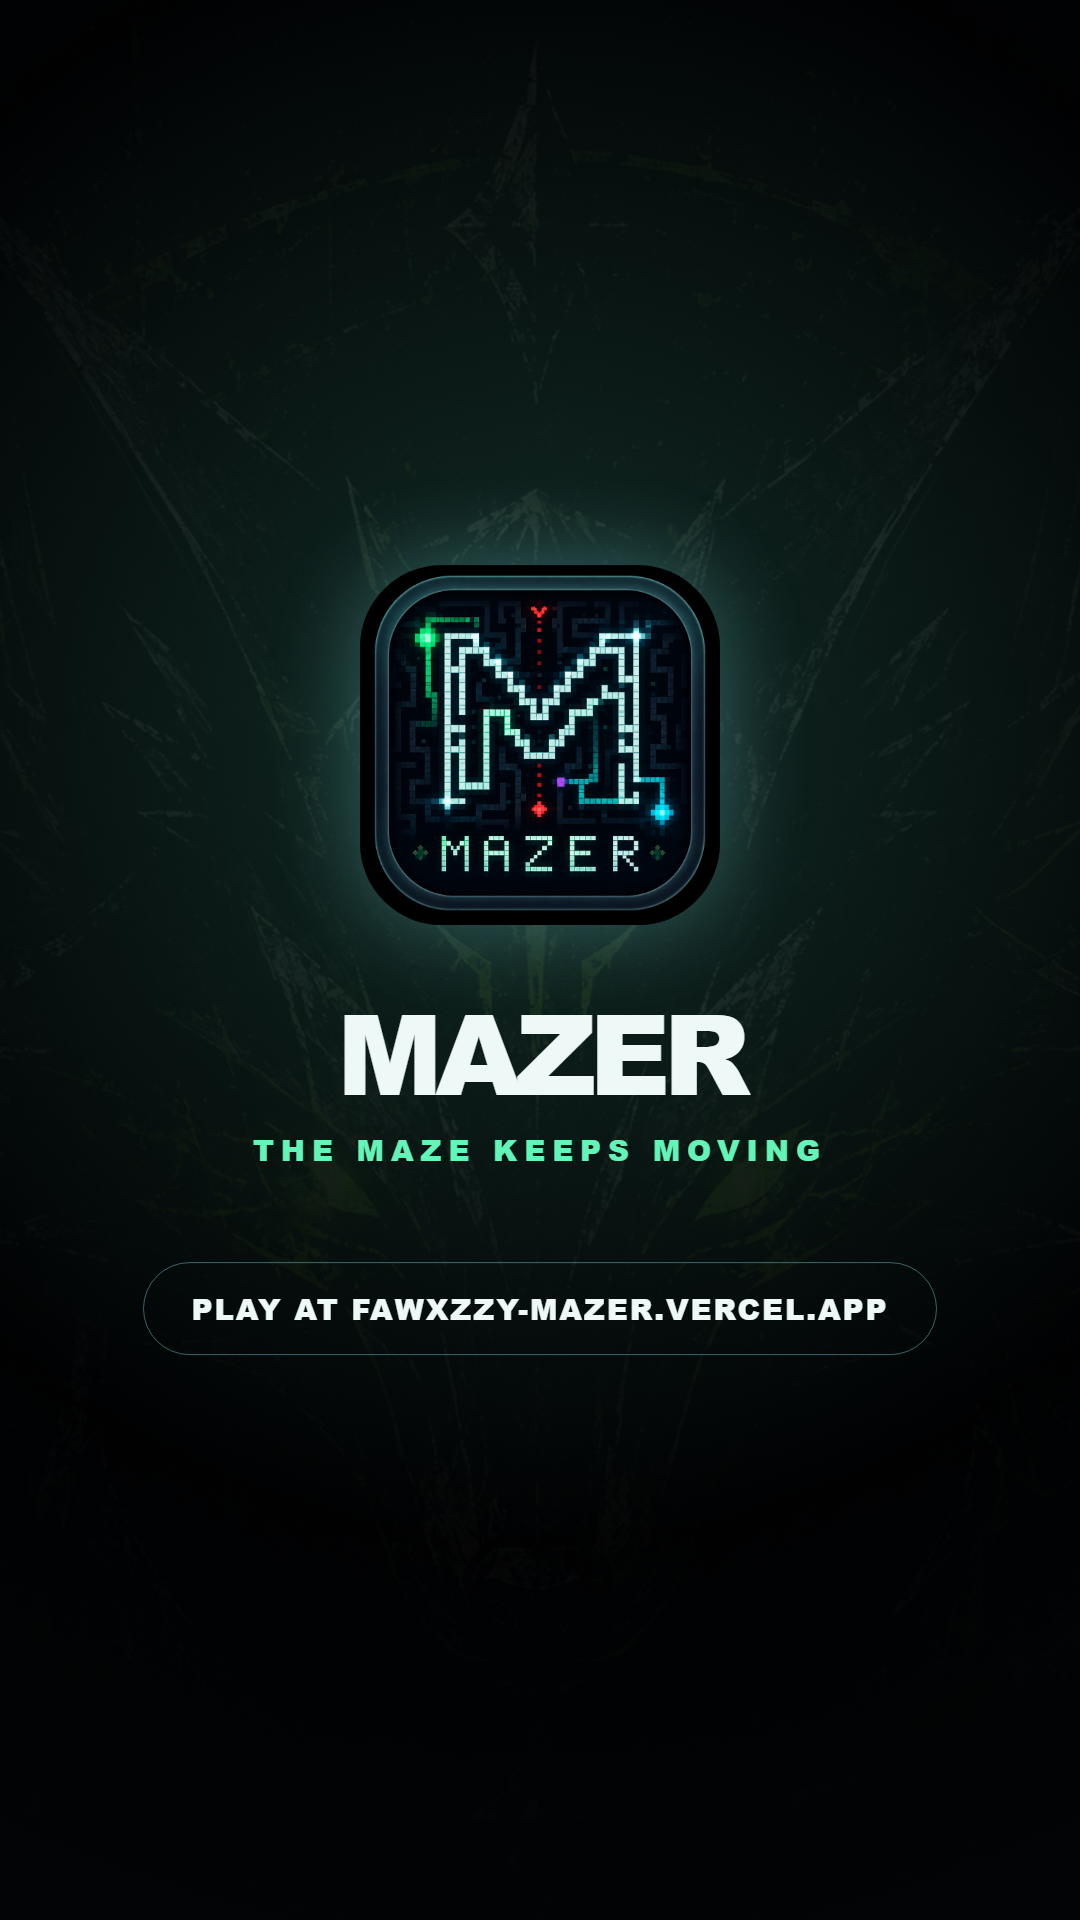
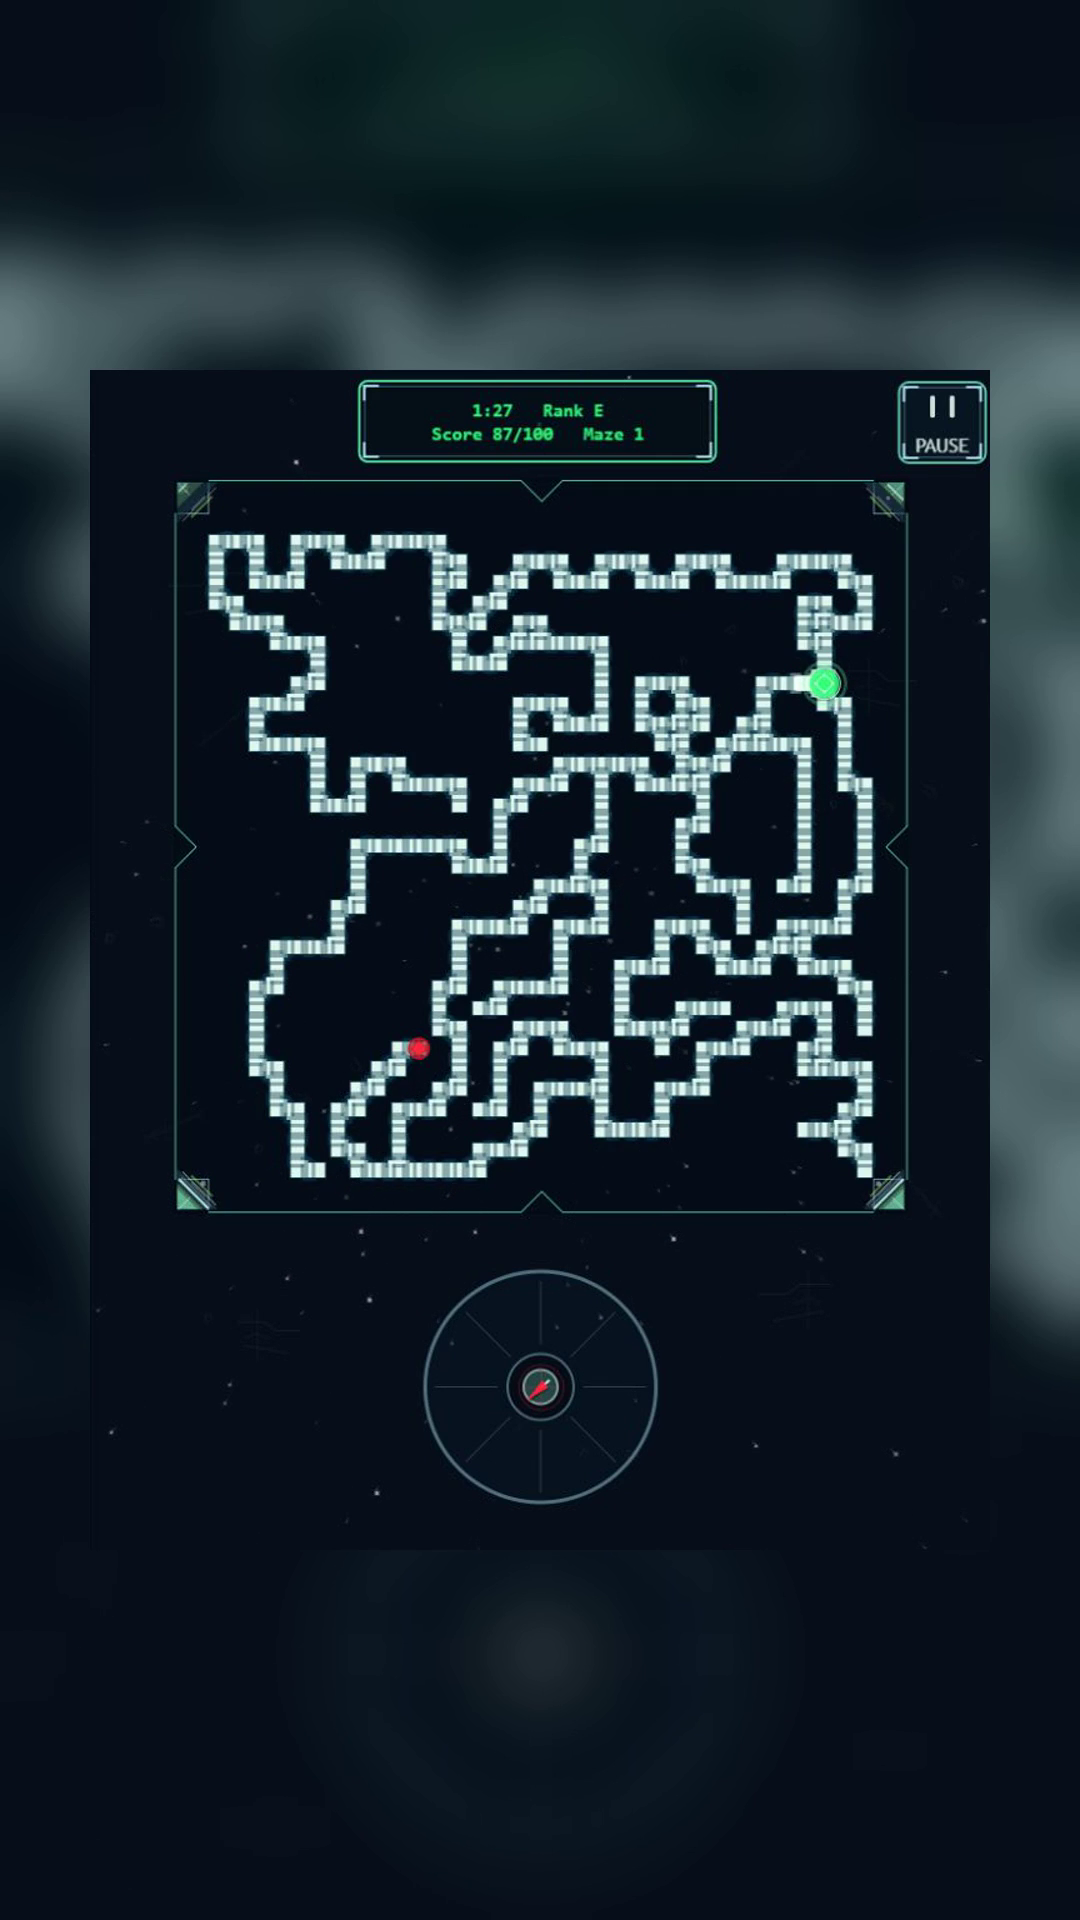
media: refresh Fawxzzy brand and live Mazer trailer

diff --git a/src/data/apps.ts b/src/data/apps.ts
@@ -167,21 +167,20 @@ export const apps: CatalogApp[] = [
       to: "#A4B5A3",
     },
     trailer: {
-      durationLabel: "0:23",
+      durationLabel: "0:35",
       description:
-        "A Fawxzzy-owned montage turns the established Mazer catalog captures into one compact watch, play, and mobile story.",
+        "Live production footage moves from an ambient watch run into active play, pause, and resume.",
       captionsSrc: "/apps/mazer/trailer-captions.vtt",
       video: {
         src: "/apps/mazer/trailer.mp4",
[2 lines of base64/hex data omitted]
         source:
-          "Fawxzzy catalog montage rendered from the existing owned Mazer watch, play, mobile, and theme captures",
+          "Socials OS MAZER-PRODUCTION-WATCH-R2 plus MAZER-PRODUCTION-PLAY-R3 live production capture on July 18, 2026",
       },
       poster: {
         src: "/apps/mazer/trailer-poster.png",
[1 lines of base64/hex data omitted]
-        source:
-          "Fawxzzy catalog poster rendered from the Mazer montage with the Socials OS Fawxzzy wolf master",
[1 lines of base64/hex data omitted]
+        source: "Poster frame extracted from the live Mazer production trailer at 00:18.200",
       },
     },
   },

diff --git a/docs/receipts/2026-07-18-live-trailer-and-brand-refresh.md b/docs/receipts/2026-07-18-live-trailer-and-brand-refresh.md
@@ -1,0 +1,49 @@
+# Live trailer and brand refresh receipt
+
+## Purpose
+
+Replace the Mazer catalog trailer with a compact, captioned live-interaction master and synchronize
+the newly supplied Fawxzzy banner and square icon onto the public web surface. The Fitness fixture
+capture is retained as private review evidence only until an exact production showcase capture is
+available.
+
+## Brand outputs
+
+| Role | Public output | SHA-256 | Source role |
+| --- | --- | --- | --- |
[2 lines of base64/hex data omitted]
+
+The supplied originals were 1280x426 (banner) and 1254x1254 (icon). Public outputs are lossless
+PNG derivatives so existing rooted routes and metadata continue to work without MIME ambiguity.
+
+## Trailer outputs
+
+| App | Duration | Video SHA-256 | Poster SHA-256 | Capture truth |
+| --- | ---: | --- | --- | --- |
[1 lines of base64/hex data omitted]
+
+The Mazer master is 1080x1920 H.264/yuv420p MP4 at 30fps with an AAC-LC silent compatibility
+track and an independent WebVTT caption track. It uses live screencast frames and safe-area
+composition; no legacy catalog screenshots are used as trailer footage.
+
+## Boundaries
+
+- The previous masters remain recoverable through the pre-refresh Git revision and the existing
+  Vercel deployment rollback path; this change does not delete historical release evidence.
+- The Fitness live-fixture review cut is not published as a catalog master; it remains local-only
+  evidence until a privacy-safe production showcase capture can replace it.
+- Seven unreferenced legacy screenshot candidates remain retained locally until a separate
+  retention decision confirms they are no longer needed for rollback or provenance.
+- The current web update does not change Fitness or Mazer deployment, Supabase/Auth/billing data,
+  social accounts, profile fields, or external publishing.
+- The Fawxzzy icon/banner rollout to social profiles requires exact authenticated account
+  verification and a per-save public readback. It is planned through Socials OS rather than
+  inferred from this web asset refresh.
+
+## Follow-up contract
+
+1. Verify the exact catalog routes and trailer playback on a preview.
+2. Publish this bounded FawxzzyWeb change only through the separately approved production path.
+3. Execute the social-profile avatar/banner refresh as a bounded, verified Socials OS curation
+   batch; preserve the approved body photograph as a separate profile-image option.

diff --git a/docs/brand-and-app-origin-contract.md b/docs/brand-and-app-origin-contract.md
@@ -11,6 +11,19 @@ remain `fawxzzyweb`. Historical receipts keep the names that were true when capt
 This separation prevents an infrastructure label from leaking into the customer-facing brand while
 preserving repository history, provider linkage, CI, rollback evidence, and downstream identifiers.
 
+## Canonical visual assets
+
+The July 18, 2026 Fawxzzy visual standard has two roles:
+
+- `public/brand/fawxzzy-banner.png` is the horizontal public banner and social-header source.
+- `public/brand/fawxzzy-wolf.png` is the square fox icon, suitable for avatars, app icon derivatives,
+  and compact brand placements.
+
+These are synchronized public outputs, not an excuse to create a second canonical icon inside an
+application owner lane. The source record, output hashes, profile-rollout boundary, and trailer
+provenance are documented in the associated refresh receipt. A distinct approved body photograph
+remains a separate, human-led profile-image option; it is not replaced by this icon policy.
+
 ## Catalog boundary
 
 `fawxzzy.com/apps` is the catalog and trailer surface. It does not become the runtime origin for